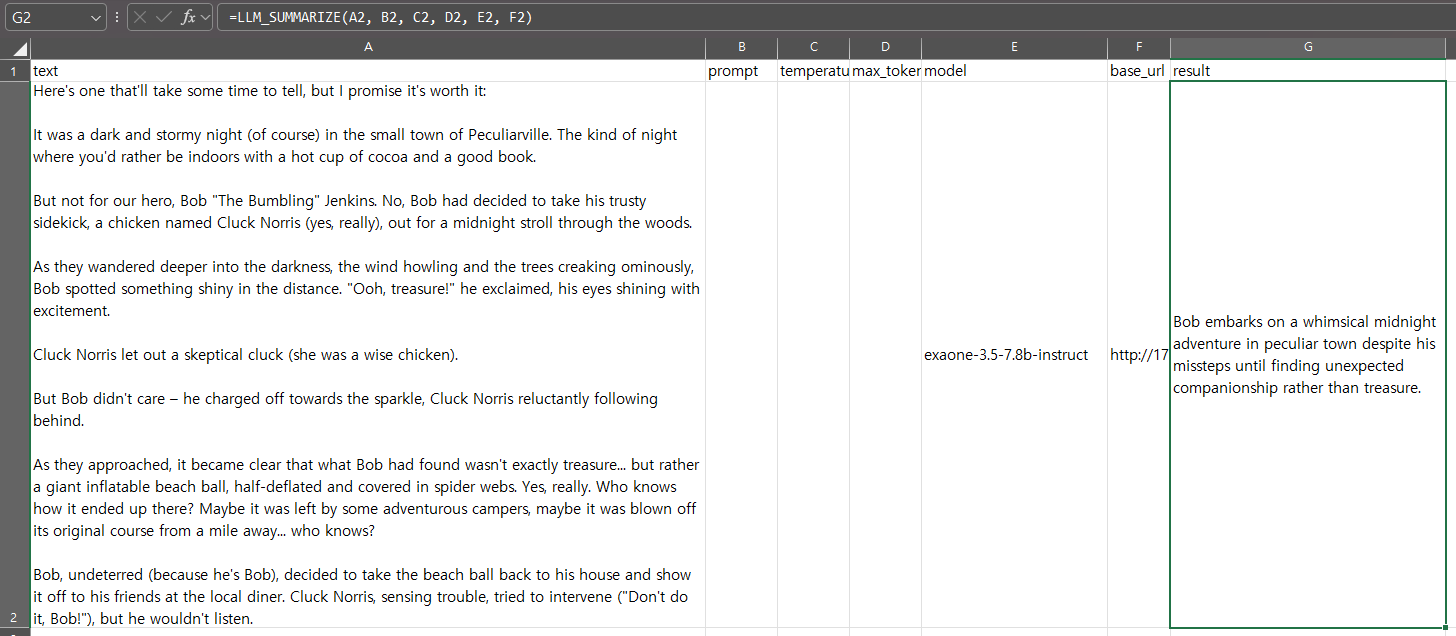
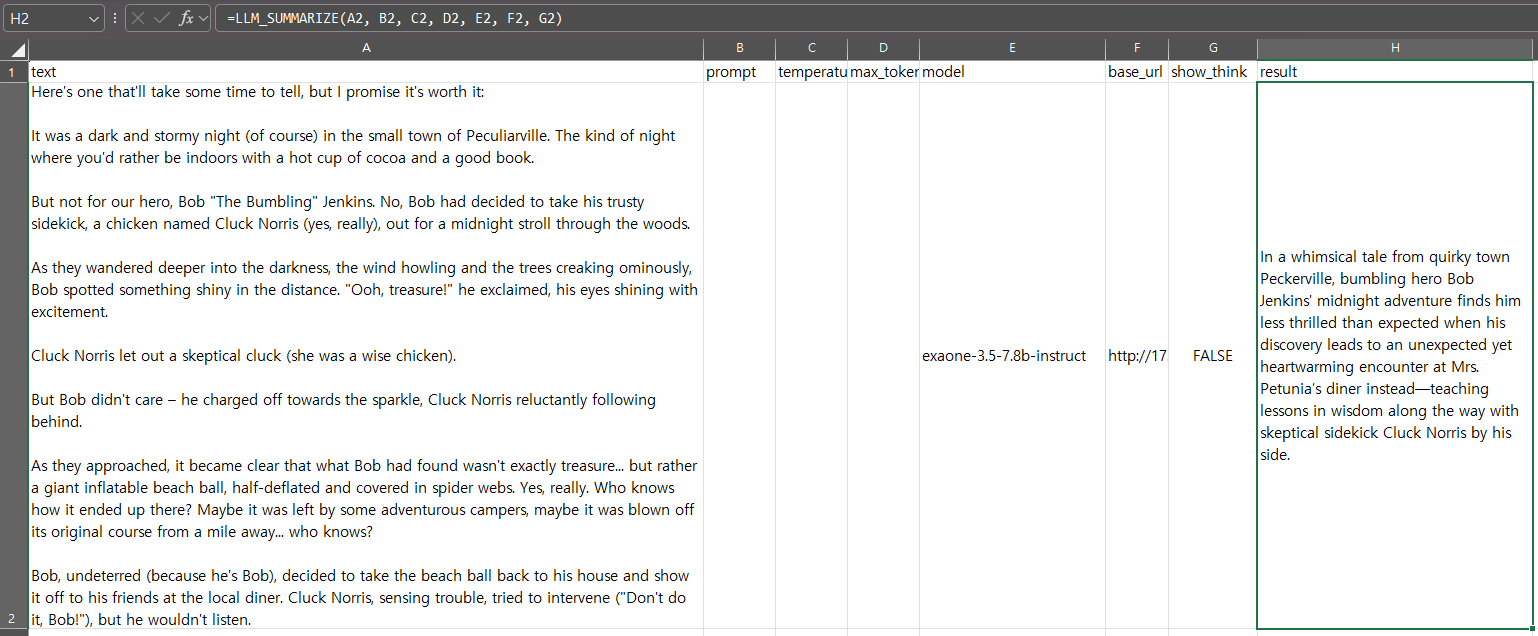
Enhance LLM functions: add showThink option for response processing and introduce LLM_CODE function for code generation

Changed region(s): [[0.0, 0.0, 1.0, 1.0]]

diff --git a/README.md b/README.md
@@ -24,10 +24,12 @@ This repository provides a set of Excel VBA modules that integrate with local la
 
 ## Usage
 
-- Use `=LLM(prompt, [value], [temperature], [max_tokens], [model], [base_url])` to get responses from your local LLM server.
+- Use `=LLM(prompt, [value], [temperature], [max_tokens], [model], [base_url], [show_think])` to get responses from your local LLM server.
     ![](img/usage_LLM.png)
-- Use `=LLM_SUMMARIZE(text, [prompt], [temperature], [max_tokens], [model], [base_url])` to generate summaries.
+- Use `=LLM_SUMMARIZE(text, [prompt], [temperature], [max_tokens], [model], [base_url], [show_think])` to generate summaries.
     ![](img/usage_LLM_SUMMARIZE.png)
+- Use `=LLM_CODE(program_detail, programming_language, [model], [base_url], [show_think])` to write code.
+    ![](img/usage_LLM_CODE.png)
 - Ensure your server URL is correctly configured, or pass it as the optional `base_url` parameter.
 
 ## License
